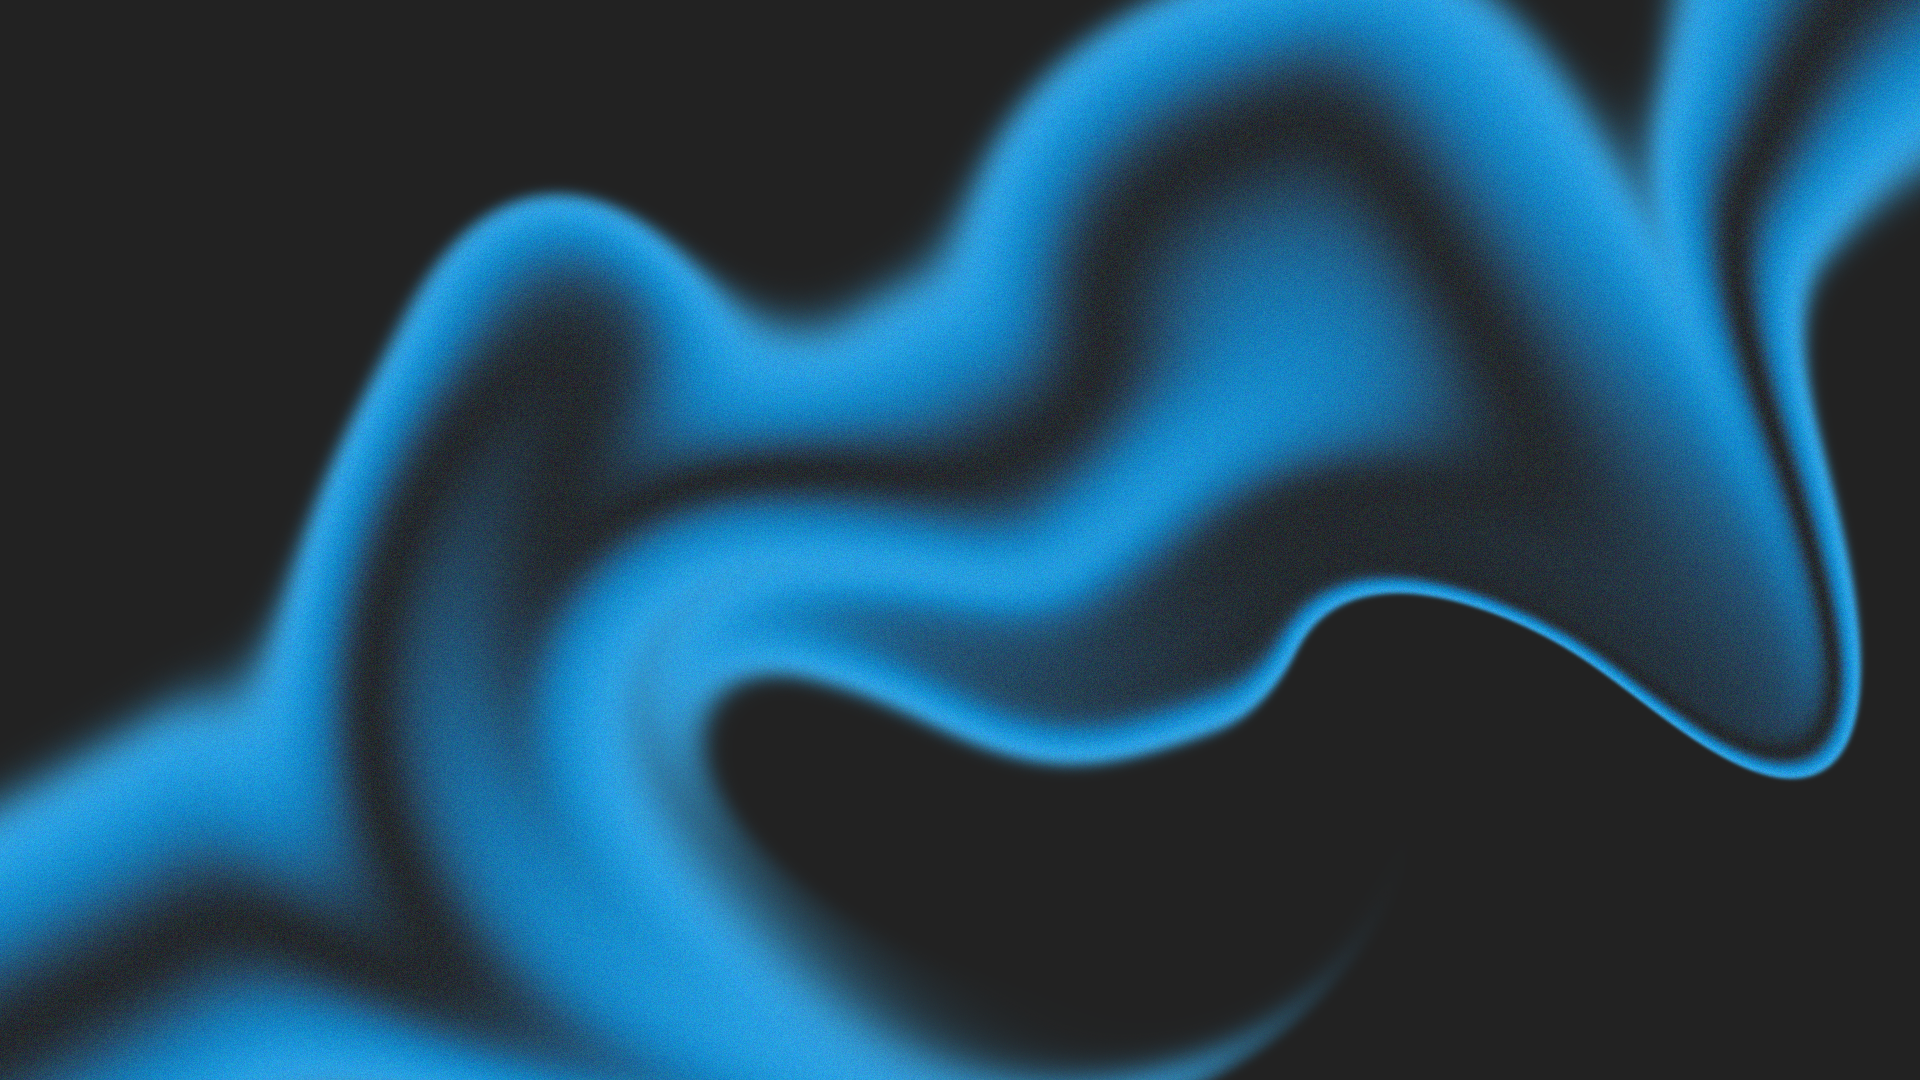
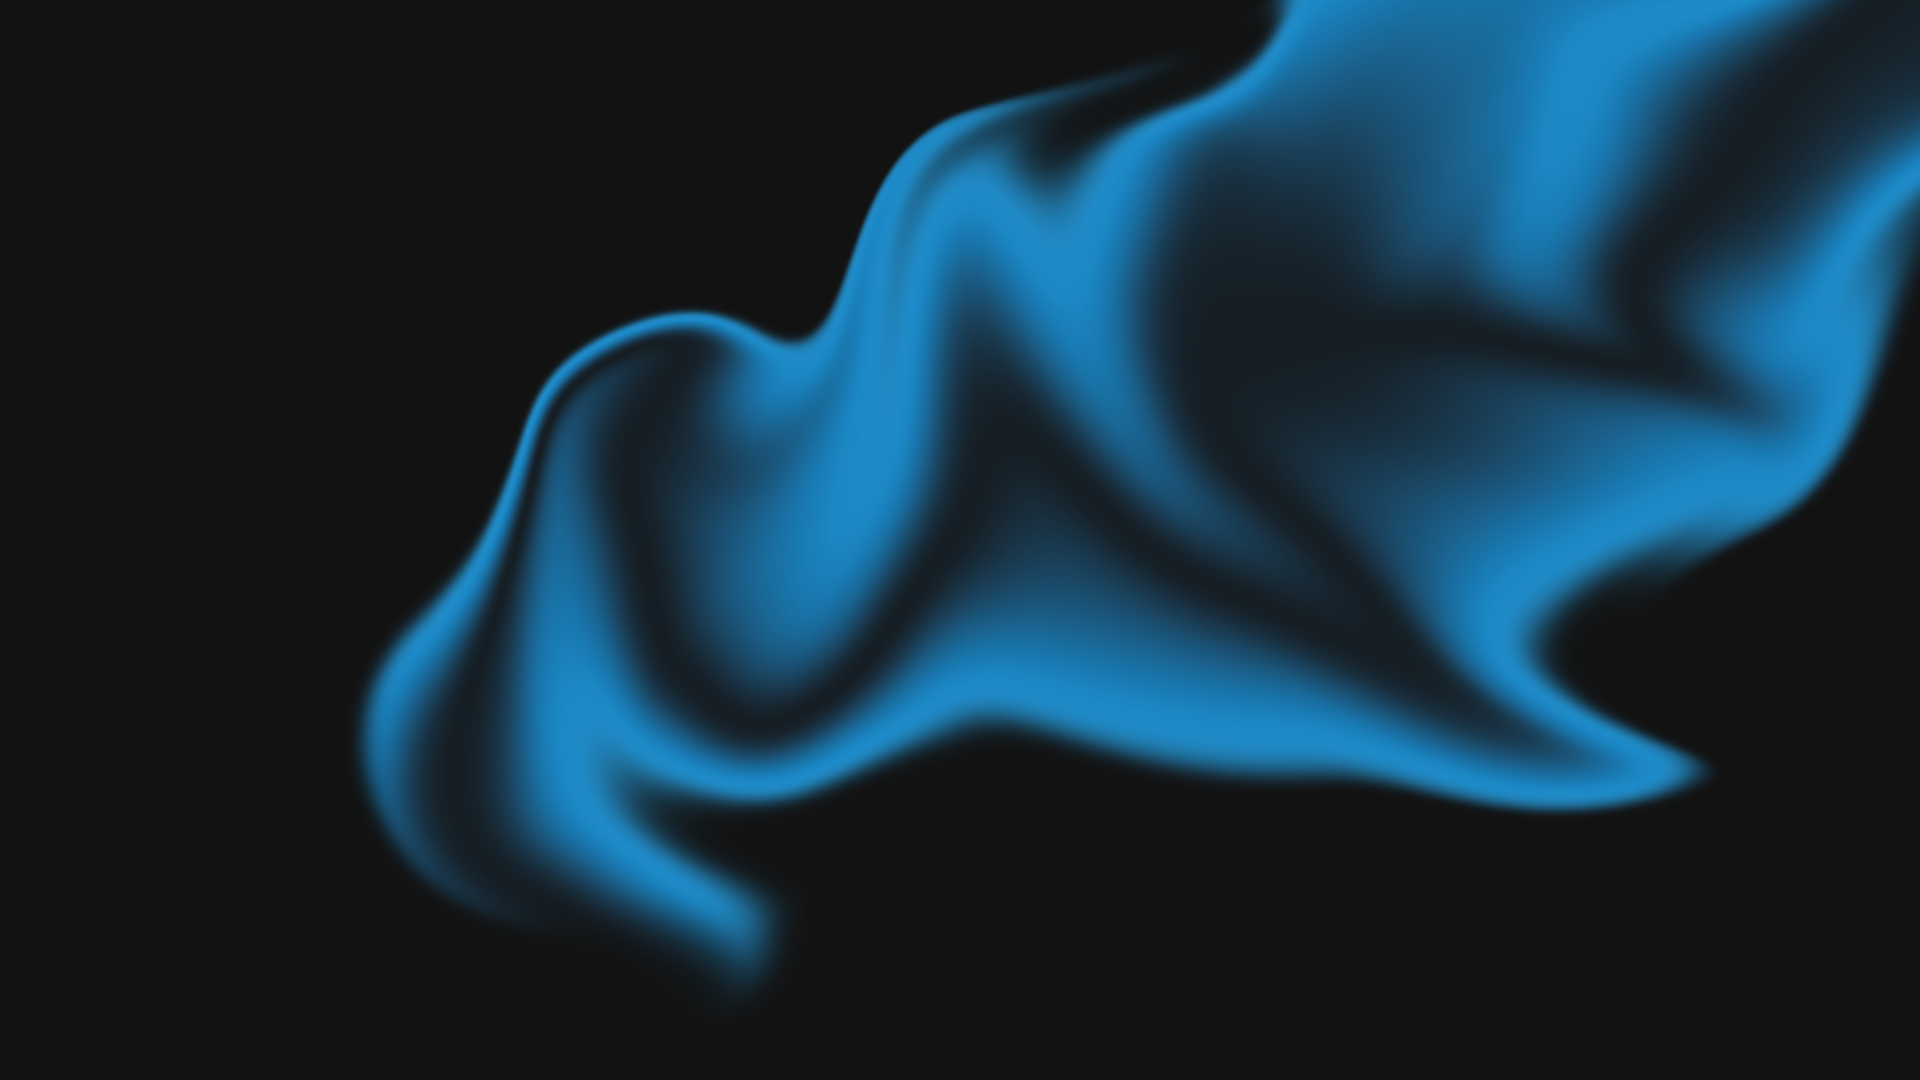
add pages

diff --git a/pages/index.tsx b/pages/index.tsx
@@ -1,17 +1,23 @@
-import { ArrowRight } from "@phosphor-icons/react/dist/ssr";
 import { motion } from "framer-motion";
-import Image from "next/image";
 import Link from "next/link";
 
 export default function Home() {
   const menu = ["Development", "Writing", "Projects"];
 
+  const scrolltoHash = function (element: string) {
+    document.getElementById(element)?.scrollIntoView({
+      behavior: "smooth",
+      block: "end",
+      inline: "nearest",
+    });
+  };
+
   return (
     <div>
-      <div className="text-white h-screen px-32 py-16 flex flex-col gap-24 bg-[url('/images/Background2.png')] bg-x">
+      <div className="text-white h-screen px-32 py-16 flex flex-col gap-32 transition-all duration-500 bg-left bg-[url('/images/Background.png')]">
         <Link href="/">
           <motion.h1
-            className="text-xl font-semibold uppercase tracking-wide"
+            className="text-xl uppercase tracking-wide"
             initial={{ opacity: 0, y: -20 }}
             animate={{ opacity: 1, y: 0 }}
             transition={{ duration: 0.5 }}
@@ -28,9 +34,10 @@ export default function Home() {
                 initial={{ opacity: 0, y: -20 }}
                 animate={{ opacity: 1, y: 0 }}
                 transition={{ duration: 0.5, delay: 1 + index * 0.25 }}
-                className="tracking-wide group"
+                className="tracking-wide group cursor-pointer"
+                onClick={() => scrolltoHash(item.toLocaleLowerCase())}
               >
-                <p className="transition-all duration-500">{item}.</p>
+                <p className="transition-all duration-500">{item}</p>
 
                 <div className="h-[2px] bg-neutral-300 rounded-full w-0 group-hover:w-full transition-all duration-500"></div>
                 {/* <div className="bg-white w-0 group-hover:w-full duration-500 h-[40px] mt-[-40px]"></div> */}
@@ -38,6 +45,18 @@ export default function Home() {
             );
           })}
         </div>
+      </div>
+
+      <div id="development" className="h-screen px-32 py-16">
+        <p className="text-white text-3xl">Development</p>
+      </div>
+
+      <div id="writing" className="h-screen px-32 py-16">
+        <p className="text-white text-3xl">Writing</p>
+      </div>
+
+      <div id="projects" className="h-screen px-32 py-16">
+        <p className="text-white text-3xl">Projects</p>
       </div>
     </div>
   );

diff --git a/pages/_document.tsx b/pages/_document.tsx
@@ -1,13 +1,15 @@
-import { Html, Head, Main, NextScript } from 'next/document'
+import { Html, Head, Main, NextScript } from "next/document";
 
 export default function Document() {
   return (
-    <Html lang="en">
-      <Head />
+    <Html lang="en" className="scroll-smooth">
+      <Head>
+        <title>Oskar Petr</title>
+      </Head>
       <body>
         <Main />
         <NextScript />
       </body>
     </Html>
-  )
+  );
 }

diff --git a/utils/cn.ts b/utils/cn.ts
@@ -1,0 +1,6 @@
+import { ClassValue, clsx } from "clsx";
+import { twMerge } from "tailwind-merge";
+
+export function cn(...inputs: ClassValue[]) {
+  return twMerge(clsx(inputs));
+}

diff --git a/styles/globals.css b/styles/globals.css
@@ -58,7 +58,7 @@
 
 
 body {
-   background-color: #111111;
+   background-color: #121212;
 }
 
 * {
